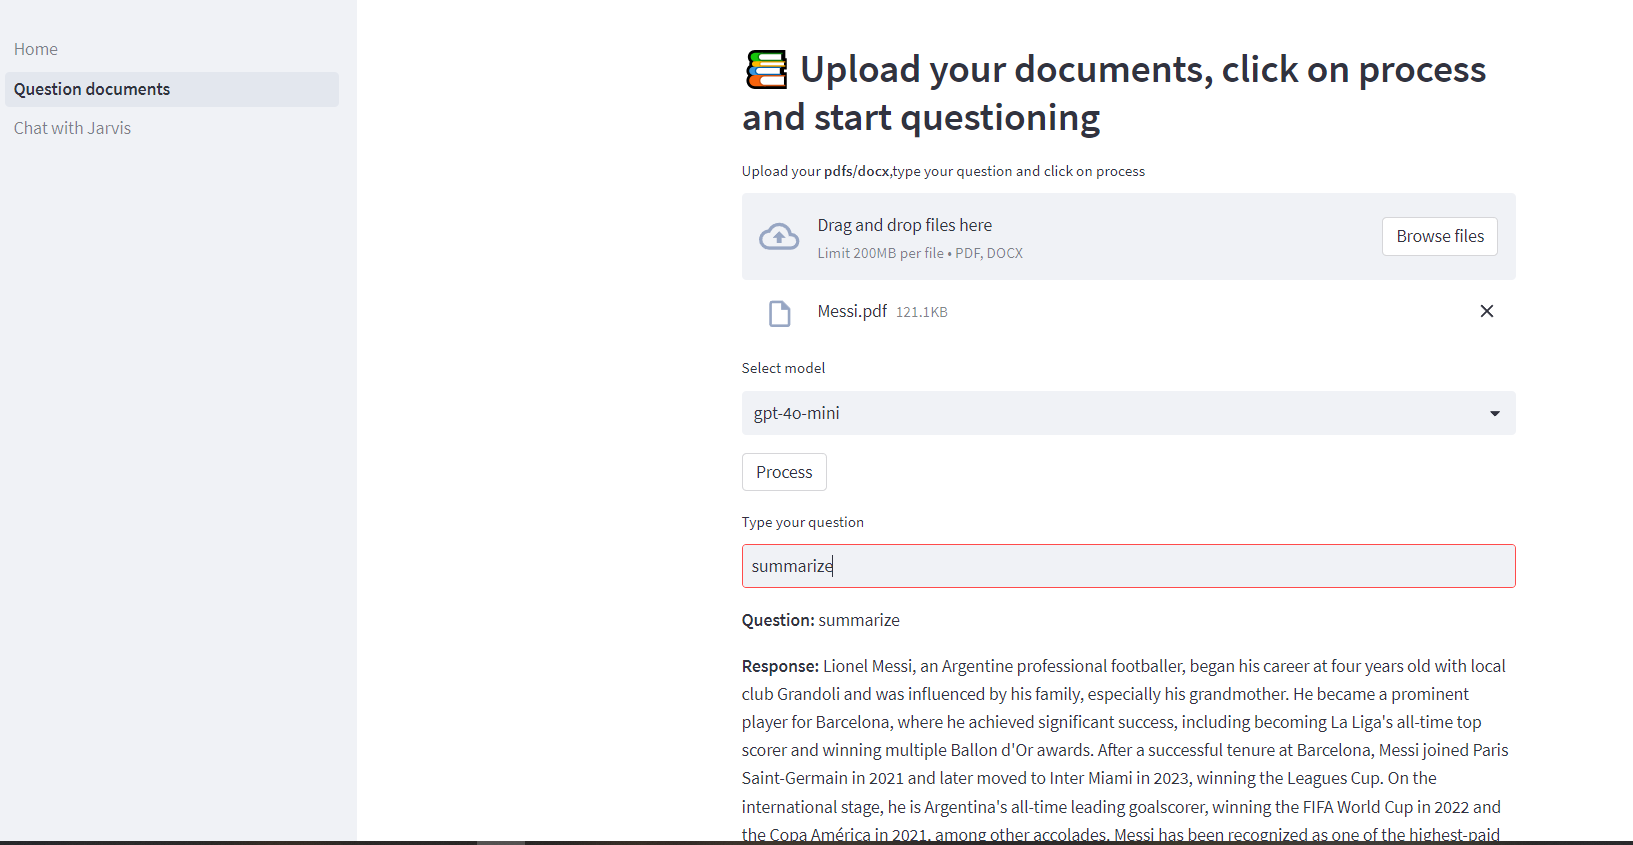
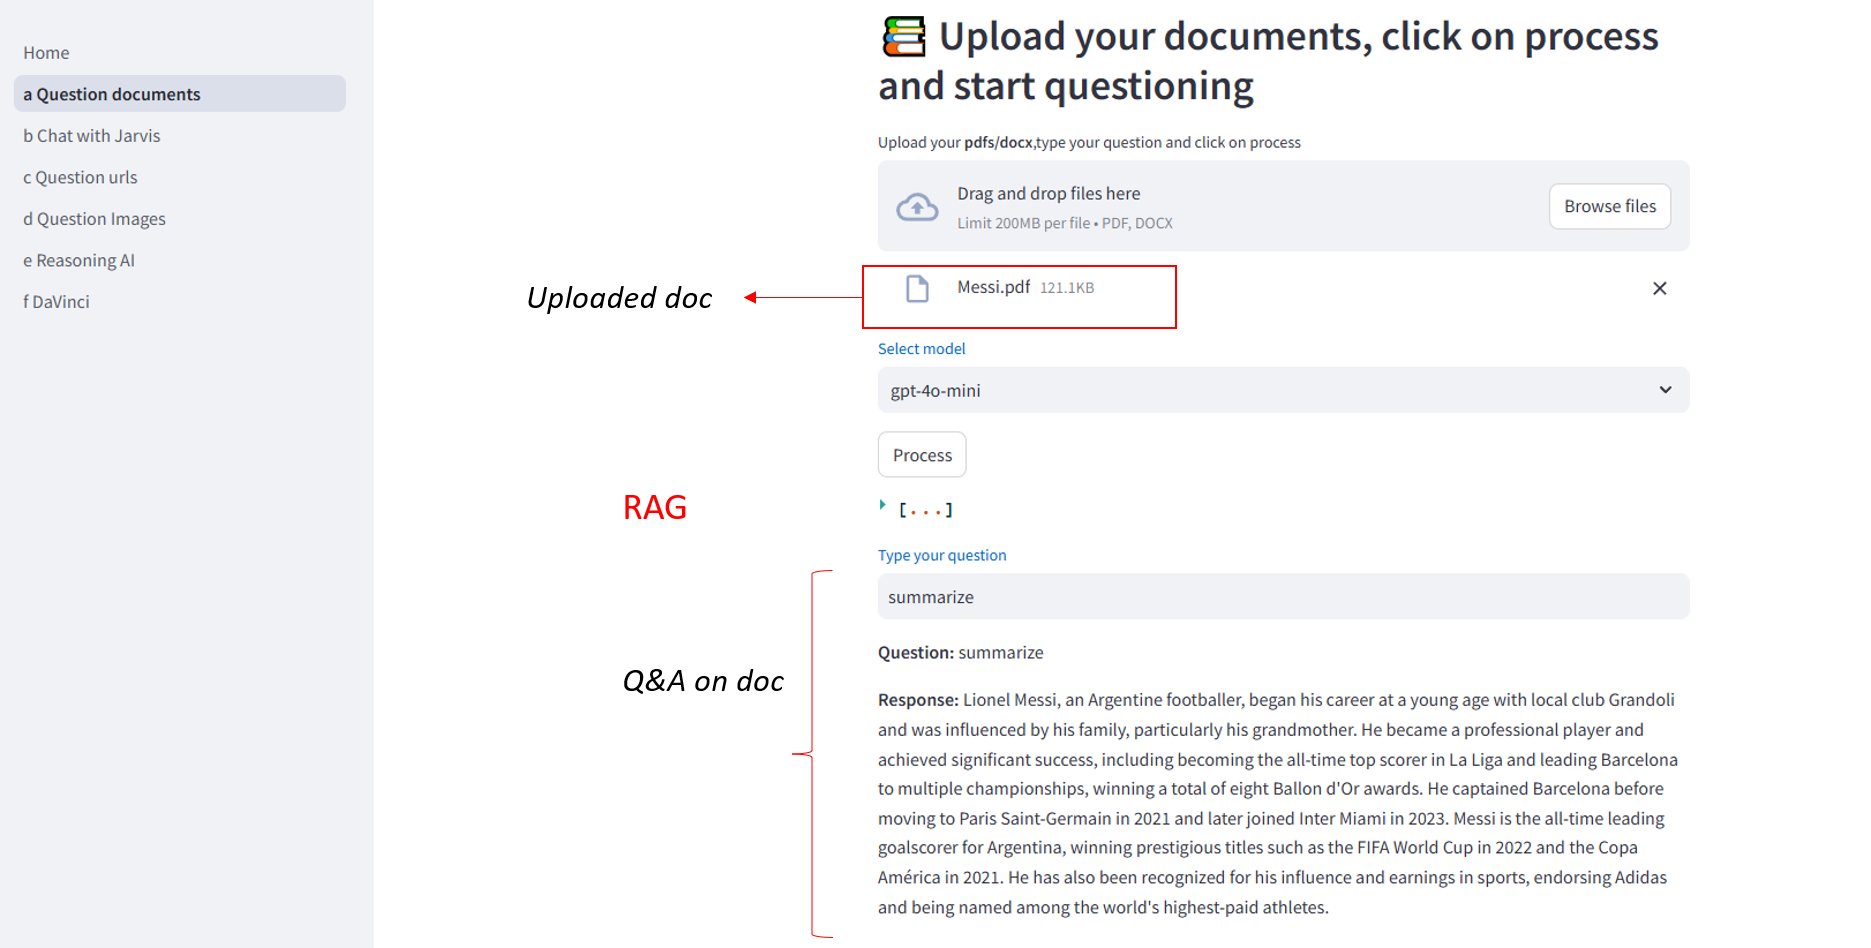
updated images and readme

diff --git a/README.md b/README.md
@@ -1,4 +1,7 @@
-# pdf_QA
+# Multi page LLM App
+![Alt-Text](Docs/Images/app_start.PNG)
+
+# pdf_QA (RAG)
 - To get Answers to questions from a pdf
 - Has memory
 
@@ -12,12 +15,11 @@
 
 # Chat with JARVIS on Images 
 - Question Images
-  ![Alt-Text](Docs/Images/chat_with_jarvis_image.png)
+![Alt-Text](Docs/Images/chat_with_jarvis_image.png)
 
 
-#Question Images
+- Question Images
 ![Alt-Text](Docs/Images/chat_with_images.PNG)
-
 
 
 
